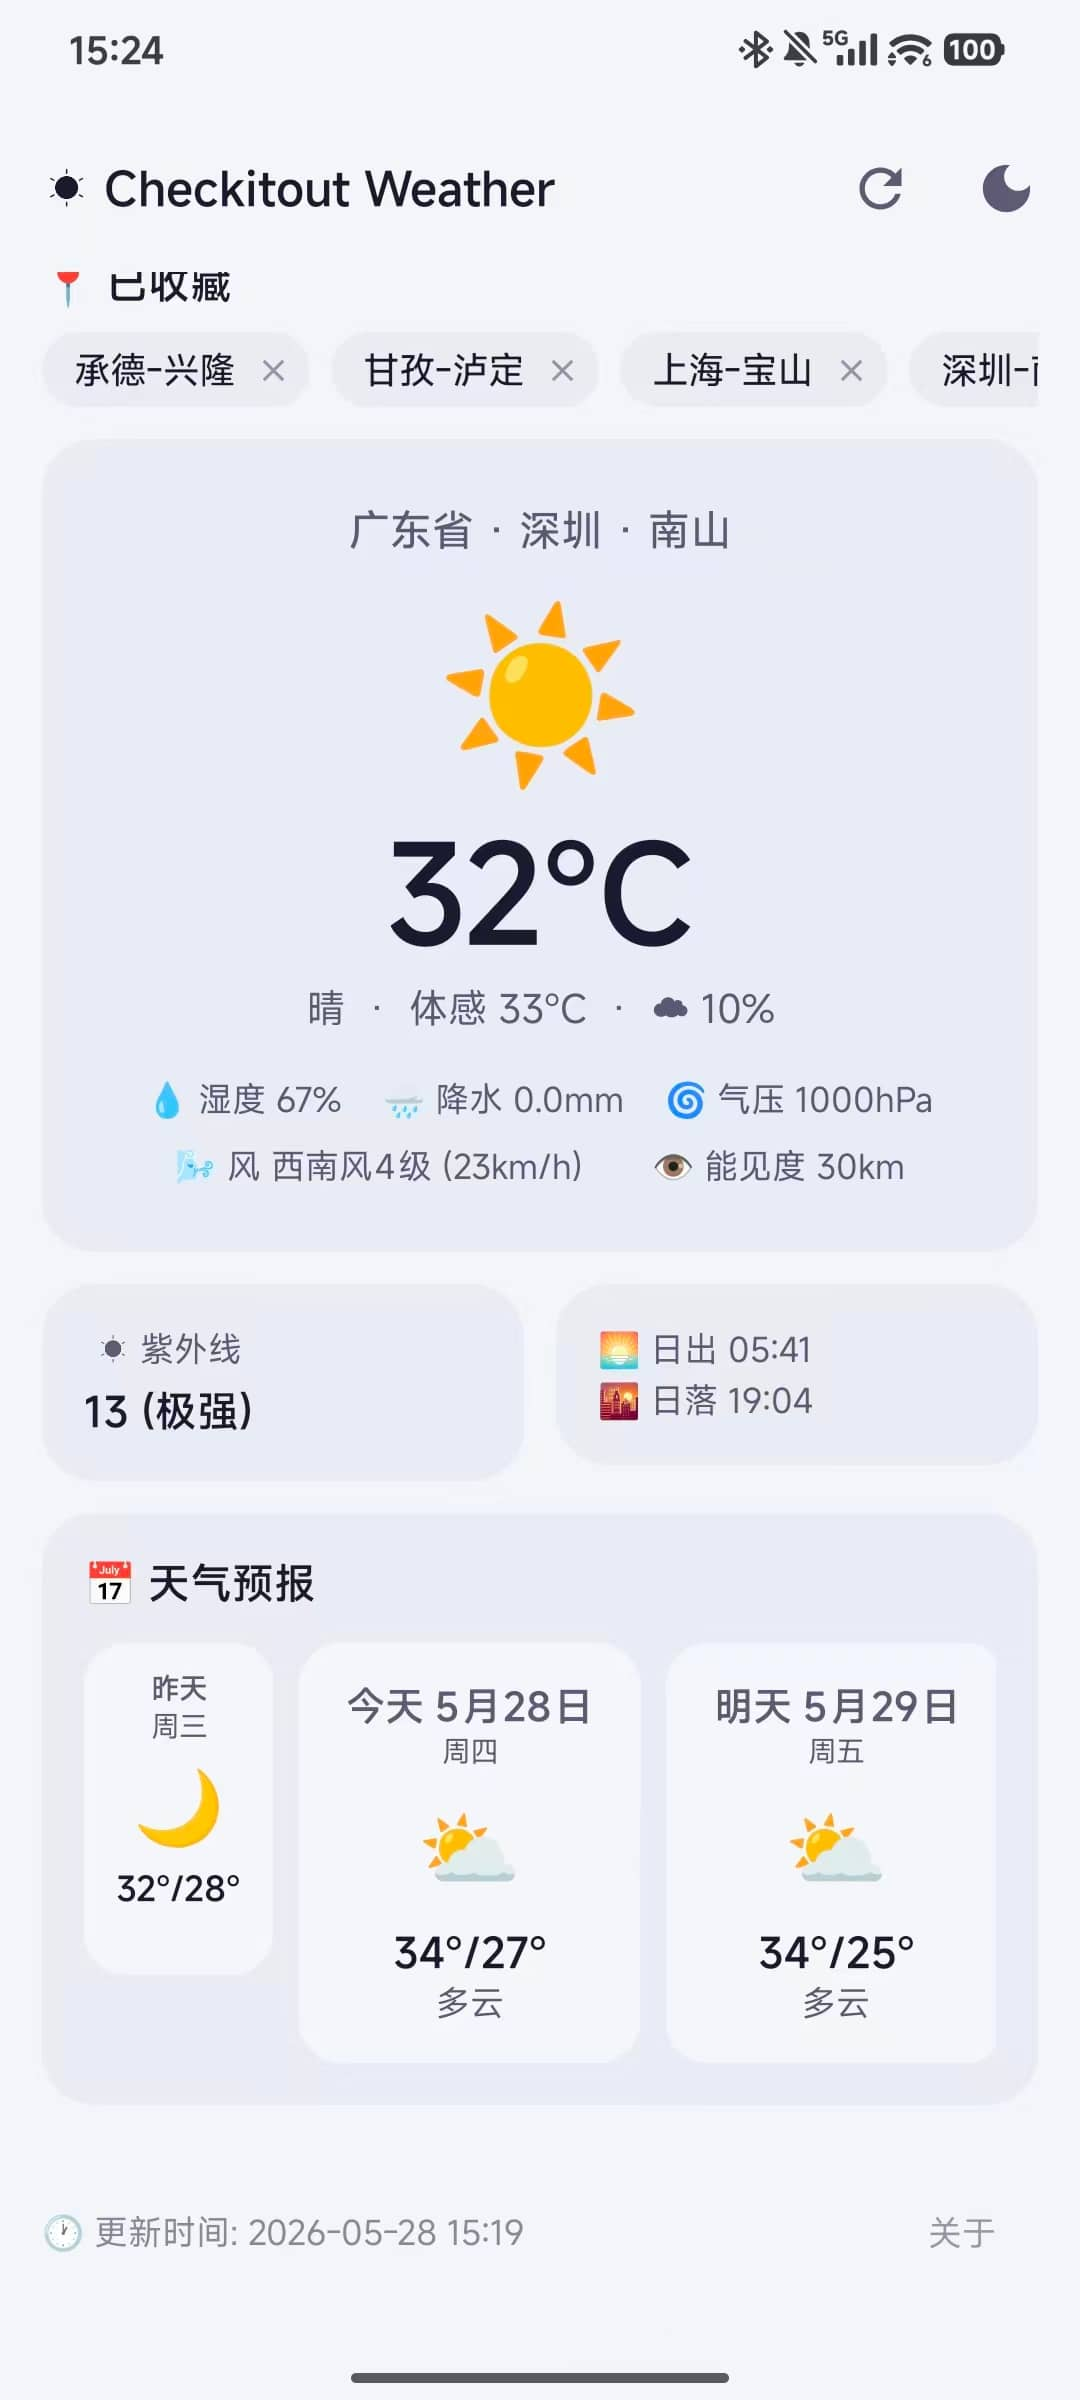
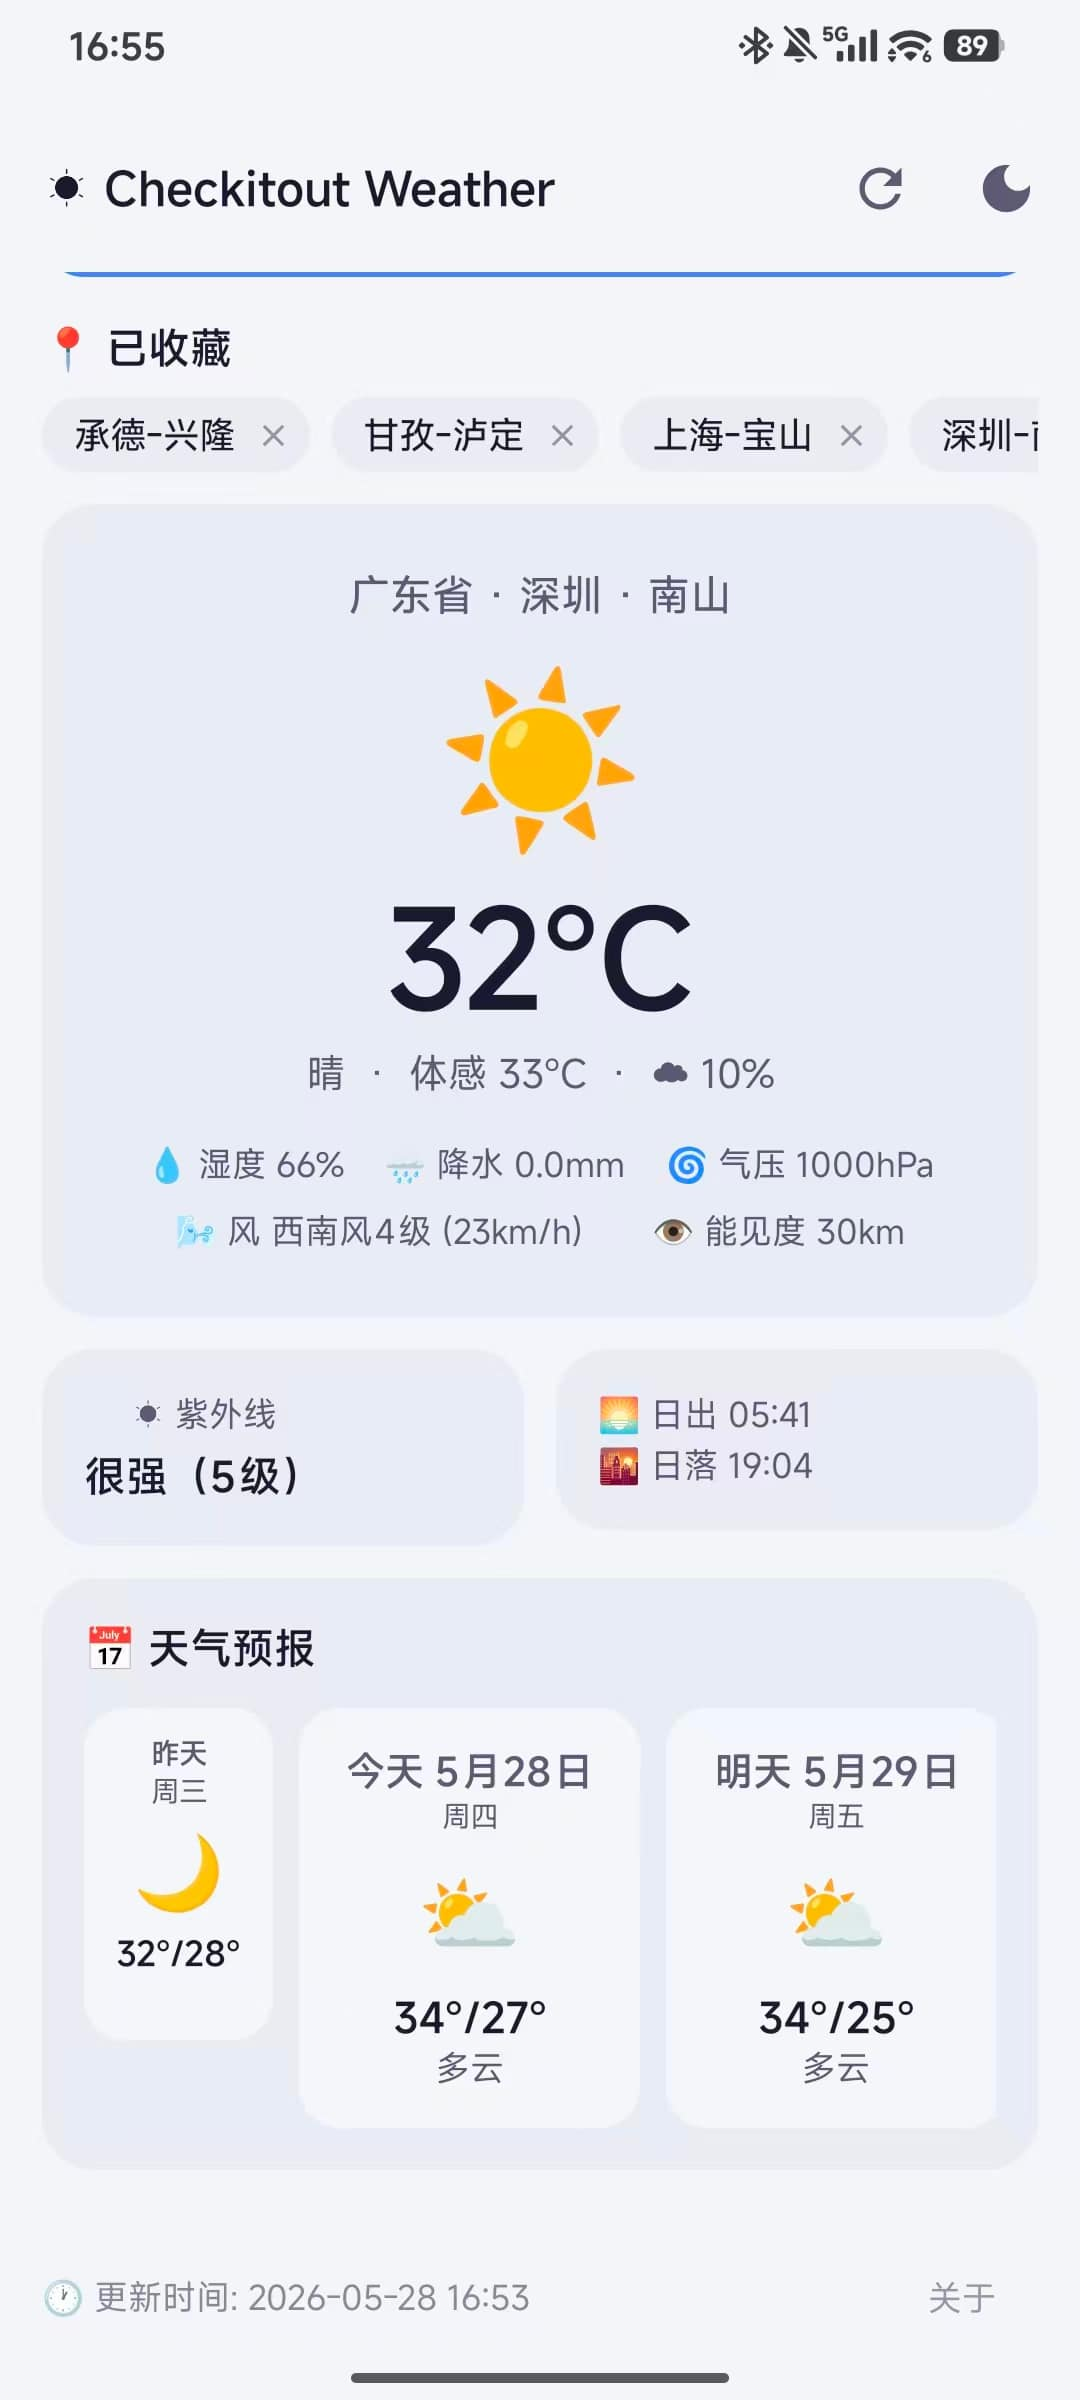
fix: fix UV index compute

diff --git a/app/src/main/java/com/checkitout/weather/ui/screens/WeatherScreen.kt b/app/src/main/java/com/checkitout/weather/ui/screens/WeatherScreen.kt
@@ -242,30 +242,43 @@ fun WeatherScreen(
                         modifier = Modifier.fillMaxWidth(),
                         horizontalArrangement = Arrangement.spacedBy(12.dp)
                     ) {
-                        if (weatherData.forecast.isNotEmpty()) {
-                            val firstDay = weatherData.forecast.first()
-                            Card(
-                                modifier = Modifier.weight(1f),
-                                shape = RoundedCornerShape(20.dp),
-                                colors = CardDefaults.cardColors(
-                                    containerColor = MaterialTheme.colorScheme.surfaceVariant
-                                )
+                        Card(
+                            modifier = Modifier.weight(1f),
+                            shape = RoundedCornerShape(20.dp),
+                            colors = CardDefaults.cardColors(
+                                containerColor = MaterialTheme.colorScheme.surfaceVariant
+                            )
+                        ) {
+                            Column(
+                                modifier = Modifier.padding(16.dp),
+                                horizontalAlignment = Alignment.CenterHorizontally
                             ) {
-                                Column(
-                                    modifier = Modifier.padding(16.dp),
-                                    horizontalAlignment = Alignment.CenterHorizontally
-                                ) {
+                                Text(
+                                    text = "☀ 紫外线",
+                                    style = MaterialTheme.typography.bodyMedium,
+                                    color = MaterialTheme.colorScheme.onSurfaceVariant
+                                )
+                                Spacer(modifier = Modifier.height(4.dp))
+                                val uvInfo = weatherData.uvInfo
+                                if (uvInfo != null) {
                                     Text(
-                                        text = "☀ 紫外线",
-                                        style = MaterialTheme.typography.bodyMedium,
-                                        color = MaterialTheme.colorScheme.onSurfaceVariant
-                                    )
-                                    Spacer(modifier = Modifier.height(4.dp))
-                                    Text(
-                                        text = WeatherUtils.uvDescription(firstDay.uvIndex),
+                                        text = "${uvInfo.category}（${uvInfo.level}级）",
                                         style = MaterialTheme.typography.titleMedium,
                                         fontWeight = FontWeight.SemiBold,
                                         color = MaterialTheme.colorScheme.onBackground
+                                    )
+                                } else if (weatherData.forecast.isNotEmpty()) {
+                                    Text(
+                                        text = WeatherUtils.uvDescription(weatherData.forecast.first().uvIndex),
+                                        style = MaterialTheme.typography.titleMedium,
+                                        fontWeight = FontWeight.SemiBold,
+                                        color = MaterialTheme.colorScheme.onBackground
+                                    )
+                                } else {
+                                    Text(
+                                        text = "--",
+                                        style = MaterialTheme.typography.titleMedium,
+                                        color = MaterialTheme.colorScheme.onSurfaceVariant
                                     )
                                 }
                             }

diff --git a/app/src/main/java/com/checkitout/weather/data/repository/WeatherRepository.kt b/app/src/main/java/com/checkitout/weather/data/repository/WeatherRepository.kt
@@ -114,6 +114,20 @@ class WeatherRepository(
             null
         }
 
+        val uvInfo = try {
+            val uvResp = api.getLifeIndices(location = city.id)
+            if (uvResp.code == "200") {
+                uvResp.daily?.firstOrNull()?.let { item ->
+                    DomainUvInfo(
+                        level = item.level?.toIntOrNull() ?: 0,
+                        category = item.category ?: ""
+                    )
+                }
+            } else null
+        } catch (_: Exception) {
+            null
+        }
+
         val sun = try {
             val today = LocalDate.now().format(DateTimeFormatter.ofPattern("yyyyMMdd"))
             val sunResp = api.getSunInfo(city.id, today)
@@ -132,6 +146,7 @@ class WeatherRepository(
             current = current,
             forecast = forecast,
             yesterday = yesterday,
+            uvInfo = uvInfo,
             air = air,
             sun = sun
         )

diff --git a/app/src/main/java/com/checkitout/weather/data/api/WeatherModels.kt b/app/src/main/java/com/checkitout/weather/data/api/WeatherModels.kt
@@ -106,6 +106,19 @@ data class Concentration(
     val value: Double?
 )
 
+data class IndicesResponse(
+    val code: String,
+    val daily: List<IndexItem>?
+)
+
+data class IndexItem(
+    val type: String?,
+    val name: String?,
+    val level: String?,
+    val category: String?,
+    val text: String?
+)
+
 data class SunResponse(
     val code: String,
     val sunrise: String?,

diff --git a/app/src/main/java/com/checkitout/weather/data/api/DomainModels.kt b/app/src/main/java/com/checkitout/weather/data/api/DomainModels.kt
@@ -61,11 +61,17 @@ data class DomainSunInfo(
     val sunset: String
 )
 
+data class DomainUvInfo(
+    val level: Int,
+    val category: String
+)
+
 data class DomainWeatherData(
     val city: DomainCity,
     val current: DomainCurrentWeather?,
     val forecast: List<DomainForecastDay>,
     val yesterday: DomainForecastDay?,
+    val uvInfo: DomainUvInfo?,
     val air: DomainAirQuality?,
     val sun: DomainSunInfo?
 )

diff --git a/app/src/main/java/com/checkitout/weather/data/api/QWeatherApi.kt b/app/src/main/java/com/checkitout/weather/data/api/QWeatherApi.kt
@@ -38,6 +38,12 @@ interface QWeatherApi {
         @Path("location") location: String
     ): AirQualityResponse
 
+    @GET("v7/indices/1d")
+    suspend fun getLifeIndices(
+        @Query("type") type: Int = 5,
+        @Query("location") location: String
+    ): IndicesResponse
+
     @GET("v7/astronomy/sun")
     suspend fun getSunInfo(
         @Query("location") location: String,